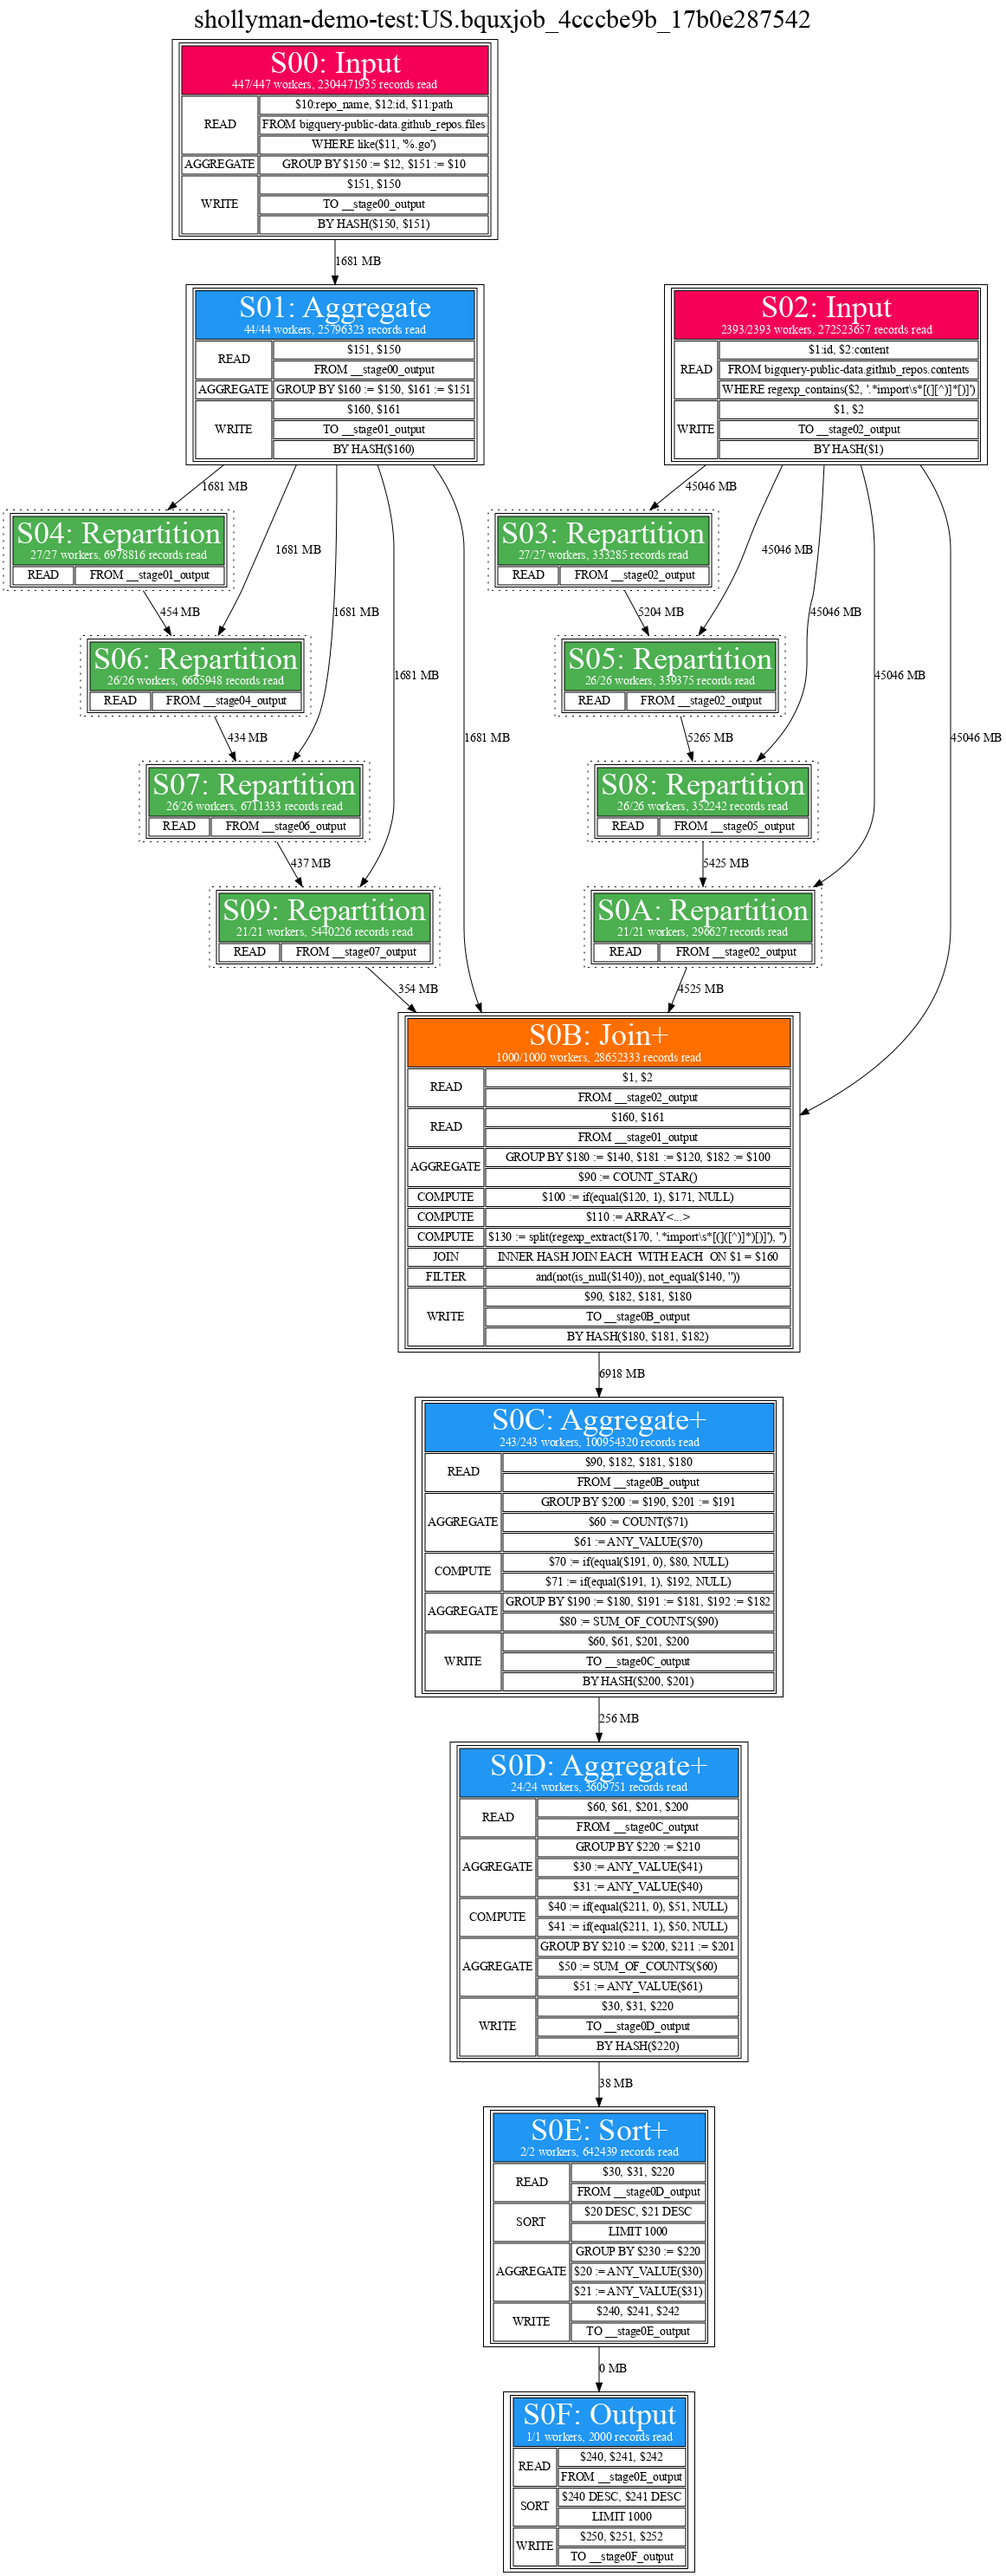
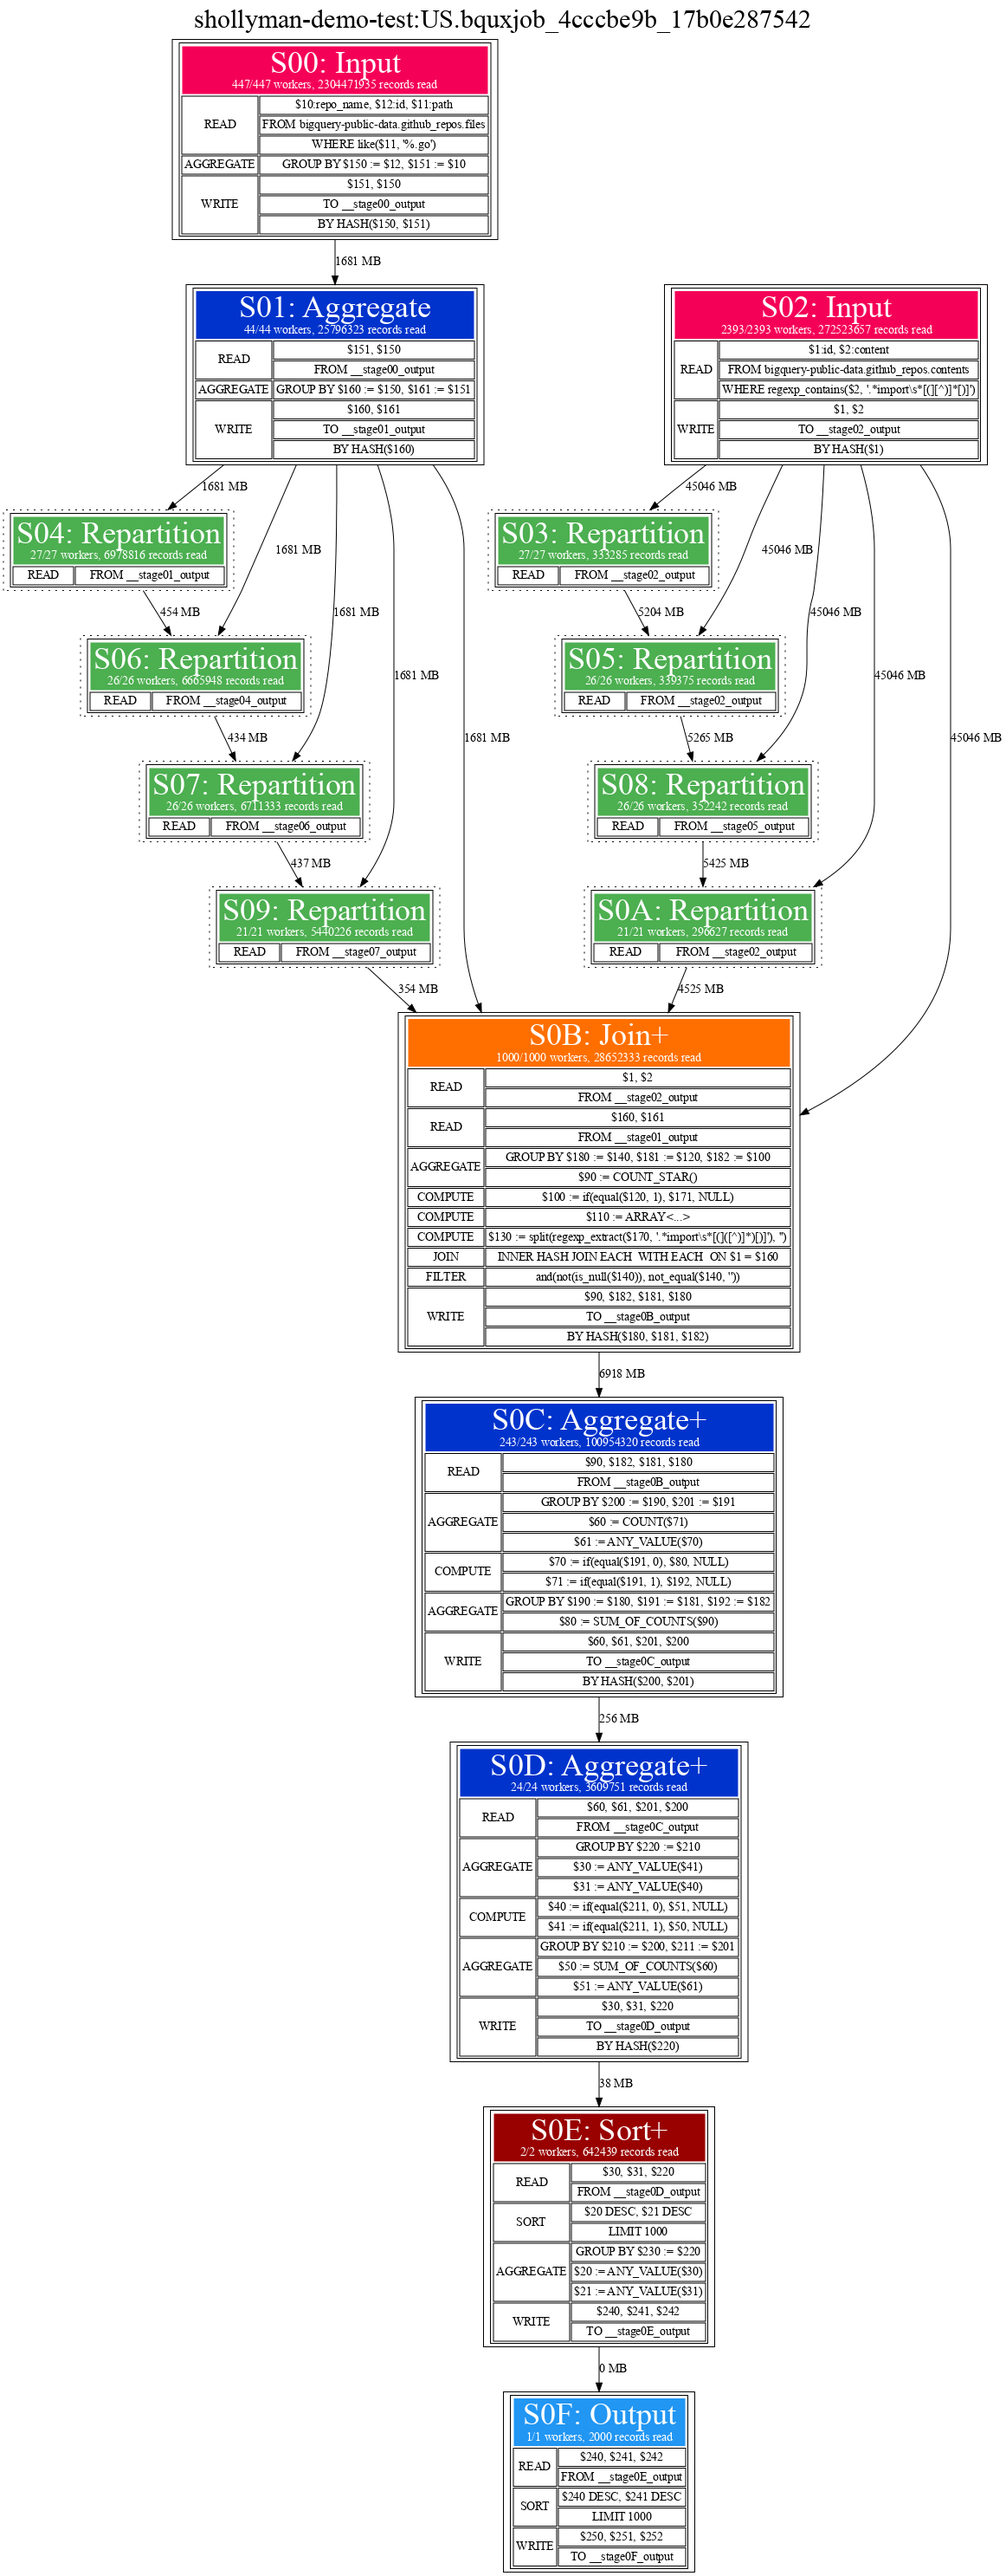
minor refactor for dot builder, more readme content

diff --git a/queryplan_visualization/cmd/querygraph/main.go b/queryplan_visualization/cmd/querygraph/main.go
@@ -107,9 +107,43 @@ func nameToColor(name string) string {
 		return "#4caf50"
 	case "Join":
 		return "#ff6f00"
+	case "Sort":
+		return "#990000"
+	case "Aggregate":
+		return "#0033cc"
 	default:
 		return "#2196f3"
 	}
+}
+
+func renderStage(buf *bytes.Buffer, stage *bigquery.ExplainQueryStage) {
+	buf.WriteString(fmt.Sprintf("\ts%d[label=<\n", stage.ID))
+	buf.WriteString("\t\t<TABLE>\n")
+	top := fmt.Sprintf("<font color=\"white\"><font point-size=\"36\">%s</font><br/>%d/%d workers, %d records read</font>", stage.Name, stage.CompletedParallelInputs, stage.ParallelInputs, stage.RecordsRead)
+	buf.WriteString(fmt.Sprintf("\t\t<TR><TD COLSPAN=\"2\" COLOR=\"#FFFFFF\" BGCOLOR=\"%s\">%s</TD></TR>\n", nameToColor(stage.Name), top))
+
+	if len(stage.Steps) > 0 {
+		for _, st := range stage.Steps {
+			l := len(st.Substeps)
+			if l > 0 {
+				// we both escape html entities, as well as pipe characters as they have a special meaning in dot syntax.
+				buf.WriteString(fmt.Sprintf("<tr><td ROWSPAN=\"%d\">%s</td><td>%s</td></tr>\n", l, st.Kind, strings.ReplaceAll(html.EscapeString(st.Substeps[0]), "|", "\\|")))
+				if l > 1 {
+					for _, sub := range st.Substeps[1:] {
+						buf.WriteString(fmt.Sprintf("<tr><td>%s</td></tr>\n", html.EscapeString(sub)))
+					}
+				}
+			} else {
+				buf.WriteString(fmt.Sprintf("<tr><td>%s</td><td>&nbsp;</td></tr>\n", st.Kind))
+			}
+
+		}
+	}
+	buf.WriteString("\t\t</TABLE>\n\t>\n")
+	if strings.Contains(stage.Name, "Repartition") {
+		buf.WriteString(" style=dotted")
+	}
+	buf.WriteString("]\n")
 }
 
 // stagesToDot converts the queryDetails datastructure into a dot representation.
@@ -124,36 +158,9 @@ func stagesToDot(stages []*bigquery.ExplainQueryStage, title string) []byte {
 	buf.WriteString(fmt.Sprintf("  label=<<font point-size=\"30\">%s</font>>\n", title))
 	buf.WriteString("\tnode[shape=record]\n")
 	for _, s := range stages {
-
 		shufOut[s.ID] = s.ShuffleOutputBytes
 		flushOut[s.ID] = s.ShuffleOutputBytesSpilled
-
-		buf.WriteString(fmt.Sprintf("\ts%d[label=<\n", s.ID))
-		buf.WriteString("\t\t<TABLE>\n")
-		top := fmt.Sprintf("<font color=\"white\"><font point-size=\"36\">%s</font><br/>%d/%d workers, %d records read</font>", s.Name, s.CompletedParallelInputs, s.ParallelInputs, s.RecordsRead)
-		buf.WriteString(fmt.Sprintf("\t\t<TR><TD COLSPAN=\"2\" COLOR=\"#FFF\" BGCOLOR=\"%s\">%s</TD></TR>\n", nameToColor(s.Name), top))
-
-		if len(s.Steps) > 0 {
-			for _, st := range s.Steps {
-				l := len(st.Substeps)
-				if l > 0 {
-					buf.WriteString(fmt.Sprintf("<tr><td ROWSPAN=\"%d\">%s</td><td>%s</td></tr>\n", l, st.Kind, html.EscapeString(st.Substeps[0])))
-					if l > 1 {
-						for _, sub := range st.Substeps[1:] {
-							buf.WriteString(fmt.Sprintf("<tr><td>%s</td></tr>\n", html.EscapeString(sub)))
-						}
-					}
-				} else {
-					buf.WriteString(fmt.Sprintf("<tr><td>%s</td><td>&nbsp;</td></tr>\n", st.Kind))
-				}
-
-			}
-		}
-		buf.WriteString("\t\t</TABLE>\n\t>\n")
-		if strings.Contains(s.Name, "Repartition") {
-			buf.WriteString(" style=dotted")
-		}
-		buf.WriteString("]\n")
+		renderStage(&buf, s)
 	}
 	buf.WriteString("\n")
 	for _, s := range stages {
@@ -169,7 +176,7 @@ func stagesToDot(stages []*bigquery.ExplainQueryStage, title string) []byte {
 func dotToPNG(in []byte, dotBinPath, outputFile string) error {
 	cmd := exec.Command(dotBinPath, "-Tpng", "-Gdpi=72", "-o", outputFile)
 	cmd.Stdin = bytes.NewReader(in)
-	_, err := cmd.Output()
+	err := cmd.Run()
 	if err != nil {
 		return fmt.Errorf("failed to generate: %w", err)
 	}

diff --git a/queryplan_visualization/README.md b/queryplan_visualization/README.md
@@ -62,9 +62,34 @@ ORDER BY distinct_repos DESC, frequency DESC
 LIMIT 1000
 ```
 
-[Corresponding image of a specific query execution graph](./examples/shollyman-demo-test__US__bquxjob_4cccbe9b_17b0e287542.png)
+![Corresponding image of a specific query execution graph](./examples/shollyman-demo-test__US__bquxjob_4cccbe9b_17b0e287542.png)
 
 
-![Corresponding image of a specific query execution graph](https://github.com/shollyman/gcp-go-snippets/blob/feat-qplan-graph/queryplan_visualization/examples/shollyman-demo-test__US__bquxjob_4cccbe9b_17b0e287542.png)
+### Top 200 Stackoverflow question tags in the last year
 
+This query examines stackoverflow question data from the trailing 365 days to
+identify most frequently used tags, as well as computing some basic tag statistics.
+```
+SELECT
+  tag,
+  COUNT(1) as total_questions,
+  APPROX_COUNT_DISTINCT(owner_user_id) as approx_questioners,
+  FORMAT("%.2f", AVG(score)) as avg_score,
+  MAX(score) as max_score,
+FROM
+(
+SELECT
+  tag,
+  id as question_id,
+  owner_user_id,
+  score,
+FROM `bigquery-public-data.stackoverflow.posts_questions` t,
+UNNEST(SPLIT(t.tags,"|")) as tag
+WHERE creation_date > TIMESTAMP_SUB(CURRENT_TIMESTAMP(), INTERVAL 365 DAY)
+)
+GROUP BY tag
+ORDER BY total_questions DESC 
+LIMIT 200
+```
 
+![Corresponding image of a specific query execution graph](./examples/shollyman-demo-test__US__bquxjob_7f564718_17b1201e6df.png)
